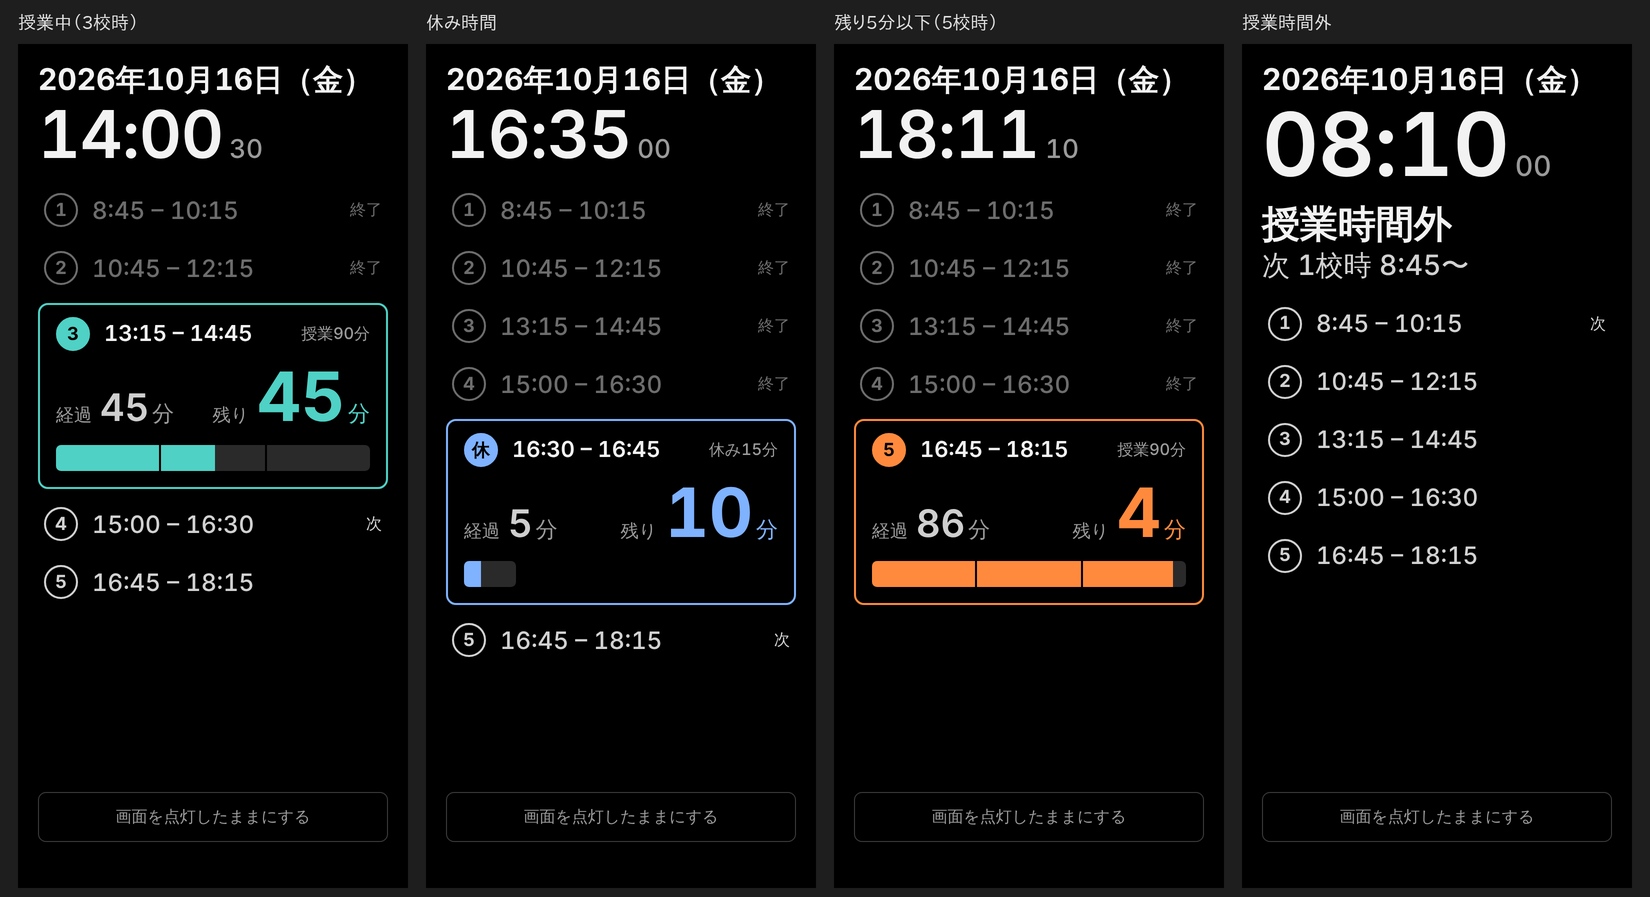
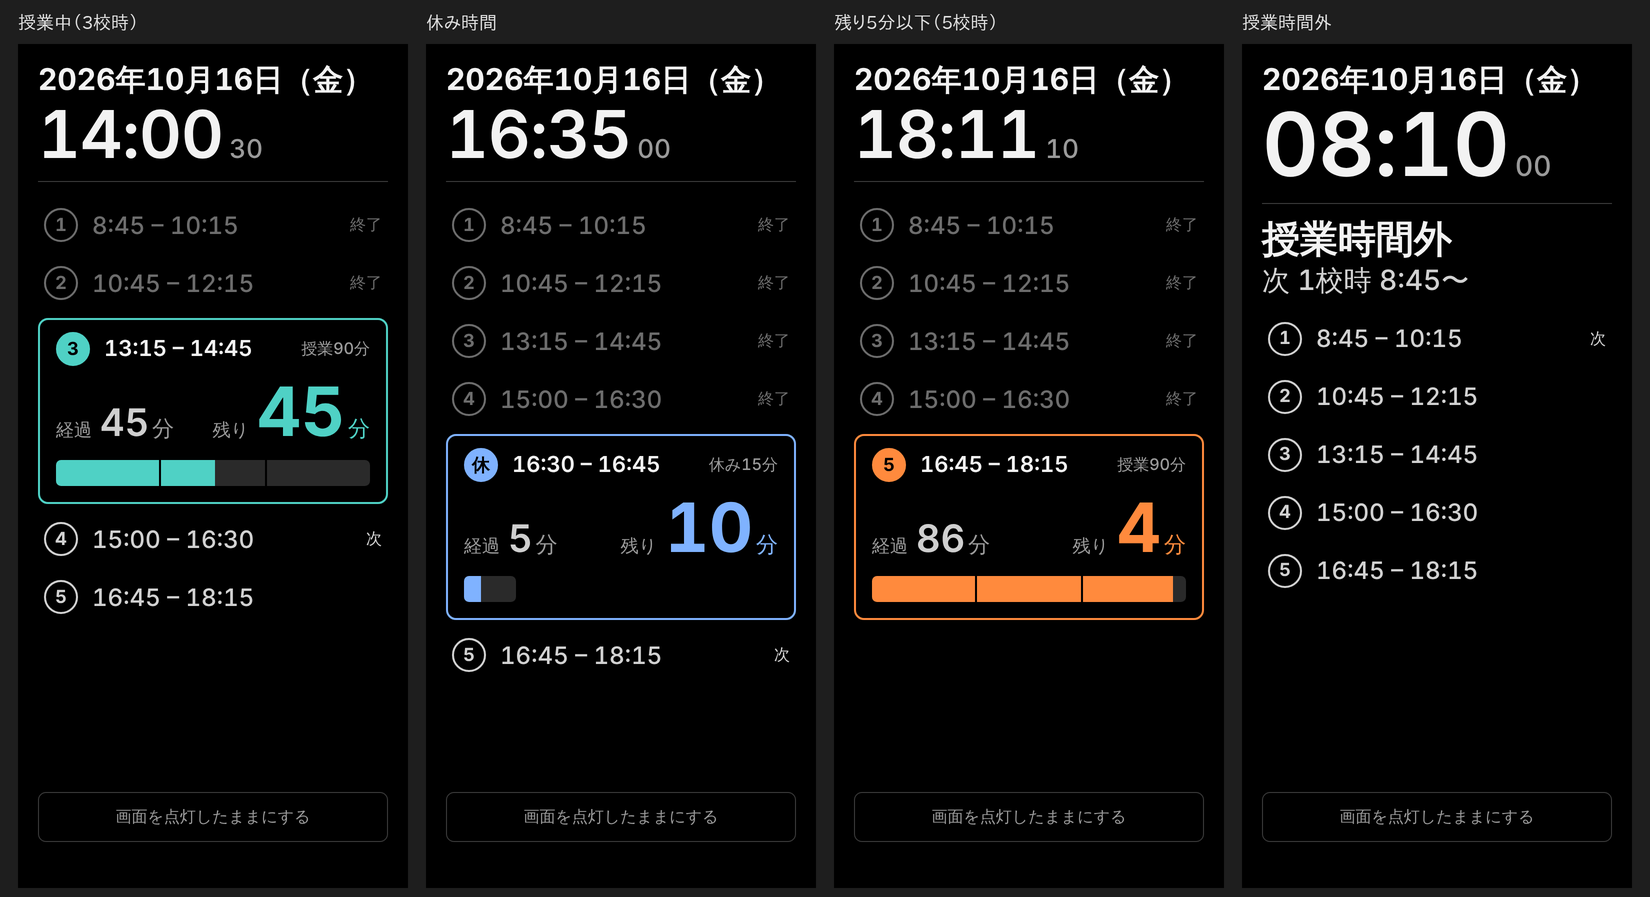
Mobile: divider line between the date/clock block and the list
Claude-Session: https://claude.ai/code/session_01WwemvzczgCFbF1NUAzGsBd

diff --git a/css/style.css b/css/style.css
@@ -15,6 +15,7 @@
   --fg: #f2f2f2;
   --dim: #9a9a9a;
   --faint: #2a2a2a;
+  --rule: #3a3a3a;     /* divider lines */
 
   --c-class: #4fd1c5;  /* in class */
   --c-warn: #ff8a3d;   /* 5 minutes or less left */
@@ -151,7 +152,7 @@ body[data-phase="off"] .c-row { grid-template-columns: calc(var(--u) * 12) 1fr c
 }
 
 /* 1. date + digital clock with small seconds */
-.m-top { line-height: 1.1; }
+.m-top { line-height: 1.1; padding-bottom: calc(var(--u) * 14); border-bottom: 1px solid var(--rule); }
 .m-date { font-size: calc(var(--u) * var(--m-date-size)); font-weight: 700; color: var(--fg); white-space: nowrap; }
 .m-time { white-space: nowrap; margin-top: calc(var(--u) * 4); line-height: 1; }
 .m-clock { font-size: calc(var(--u) * var(--m-clock-size)); font-weight: 600; letter-spacing: -0.01em; }
